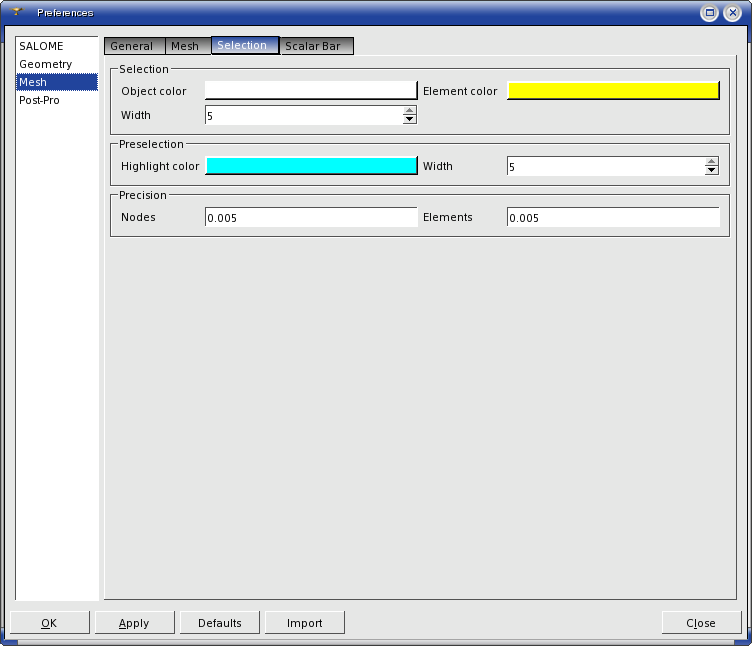
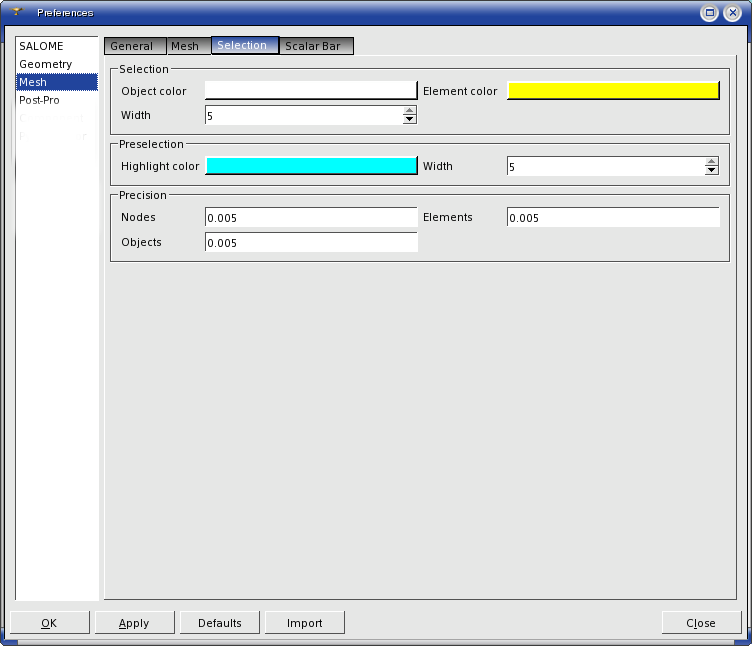
Update GUI documentation for NPAL16771

Changed region(s): [[0.2447, 0.3406, 0.5811, 0.4025], [0.1529, 0.3406, 0.2141, 0.4025]]

diff --git a/doc/salome/gui/GUI/mesh_preferences.htm b/doc/salome/gui/GUI/mesh_preferences.htm
@@ -255,8 +255,9 @@ if (window.writeIntopicBar)
  - allows to define the width of preselected edges.</p></li>
 	
 	<li class=kadov-p><p class="whs1">Precision<span style="font-weight: normal;"> 
- - in this menu you can set the value of precision used for </span>Nodes<span 
- style="font-weight: normal;"> and </span>Elements<span style="font-weight: normal;">.</span></p></li>
+ - in this menu you can set the value of precision used for </span>Nodes,<span 
+ style="font-weight: normal;"> </span>Elements<span style="font-weight: normal;"> 
+ and</span> Objects<span style="font-weight: normal;">.</span></p></li>
 </ul>
 
 <p class="whs1">&nbsp;</p>
